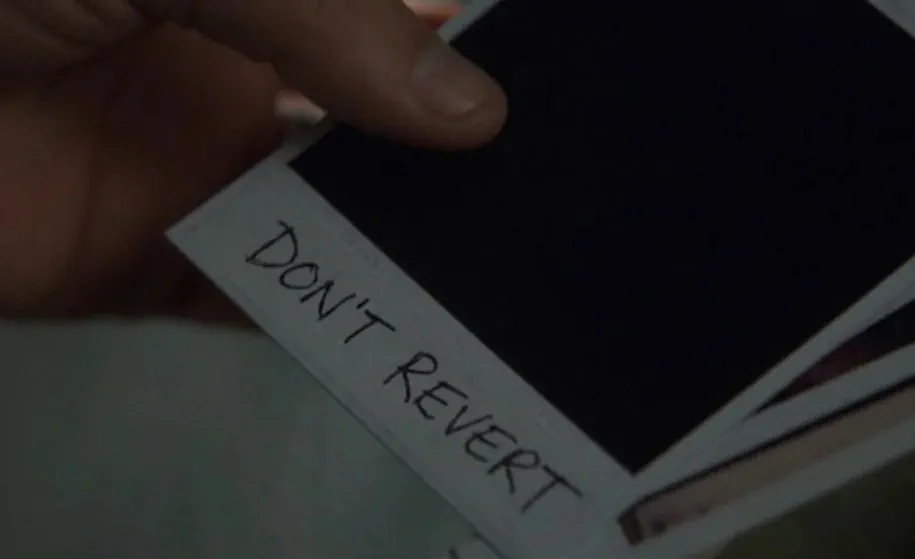
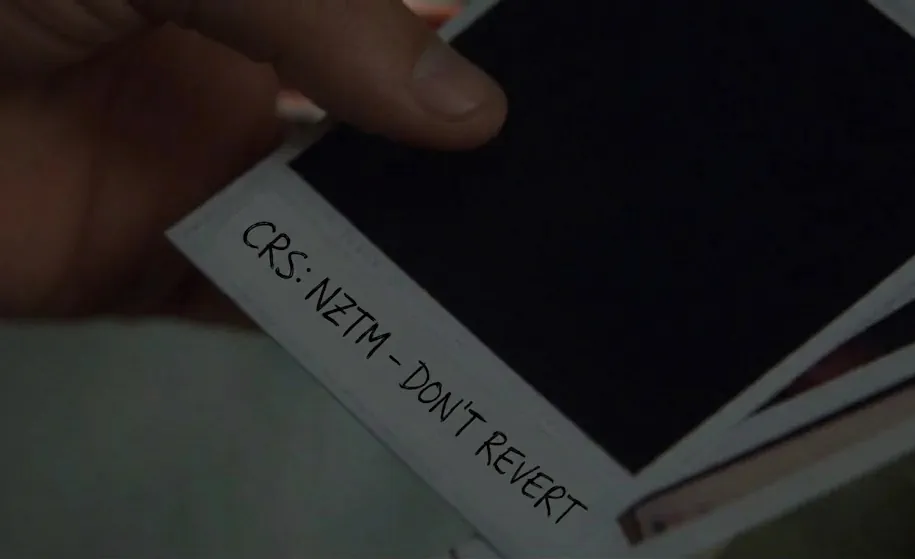
update polaroid image, and reword some paragraphs

Changed region(s): [[0.4284, 0.6082, 0.6426, 0.9123], [0.2448, 0.3953, 0.4284, 0.6386]]

diff --git a/docs/projects/ai-workflow.html b/docs/projects/ai-workflow.html
@@ -7,6 +7,7 @@
 <meta name="viewport" content="width=device-width, initial-scale=1.0, user-scalable=yes">
 
 <meta name="dcterms.date" content="2026-07-04">
+<meta name="description" content="An assistant that forgets between sessions, and the file system to manage its memory.">
 
 <title>AI project management workflow – zh:</title>
 <style>
@@ -151,6 +152,11 @@ ul.task-list li input[type="checkbox"] {
 <p class="subtitle lead">Files, rituals, and a division of labour for a worker with no memory</p>
 </div>
 
+<div>
+  <div class="description">
+    An assistant that forgets between sessions, and the file system to manage its memory.
+  </div>
+</div>
 
 
 <div class="quarto-title-meta">

diff --git a/docs/projects.html b/docs/projects.html
@@ -218,7 +218,7 @@ window.Quarto = {
 
 <div class="quarto-listing quarto-listing-container-grid" id="listing-listing">
 <div class="list grid quarto-listing-cols-3">
-<div class="g-col-1" data-index="0" data-listing-date-sort="1782475200000" data-listing-file-modified-sort="1783136273709" data-listing-date-modified-sort="NaN" data-listing-reading-time-sort="17" data-listing-word-count-sort="3257">
+<div class="g-col-1" data-index="0" data-listing-date-sort="1782475200000" data-listing-file-modified-sort="1783137085680" data-listing-date-modified-sort="NaN" data-listing-reading-time-sort="17" data-listing-word-count-sort="3218">
 <a href="./projects/leapfrog-postgresql.html" class="quarto-grid-link">
 <div class="quarto-grid-item card h-100 card-left">
 <p class="card-img-top">
@@ -248,7 +248,7 @@ River Braid Change Mapping
 </div>
 </div></a>
 </div>
-<div class="g-col-1" data-index="2" data-listing-date-sort="1783080000000" data-listing-file-modified-sort="1783119699611" data-listing-date-modified-sort="NaN" data-listing-reading-time-sort="9" data-listing-word-count-sort="1724">
+<div class="g-col-1" data-index="2" data-listing-date-sort="1783080000000" data-listing-file-modified-sort="1783147821935" data-listing-date-modified-sort="NaN" data-listing-reading-time-sort="9" data-listing-word-count-sort="1678">
 <a href="./projects/ai-workflow.html" class="quarto-grid-link">
 <div class="quarto-grid-item card h-100 card-left">
 <p class="card-img-top">